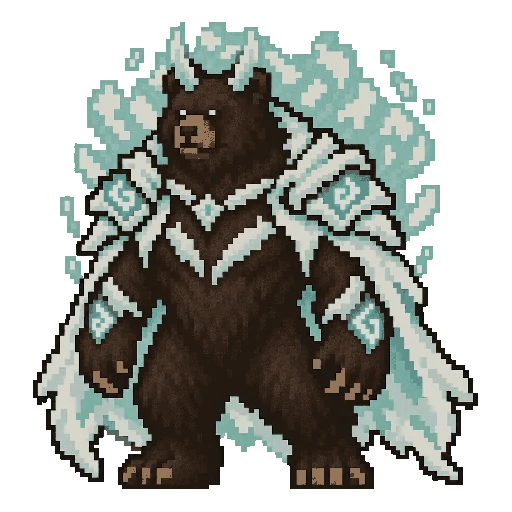
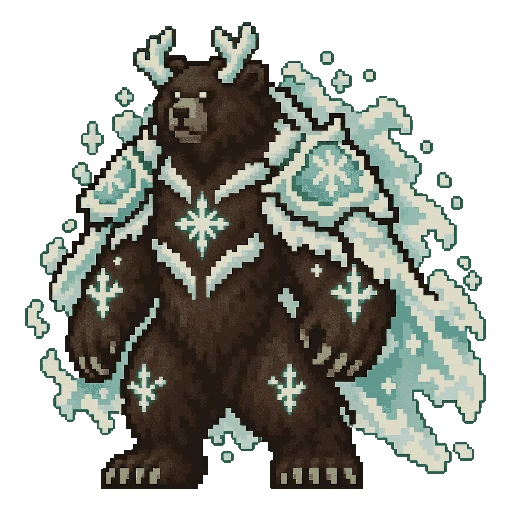
feat: 8 evolved pictures remade with the retro instructions (closer to the Gotomon look)
ユーザーの依頼で、レトロの指示（見本と同じ明るさ・くすんだ色・少ない色数・平らな かげ・ふちどりは見本なみ・
新しい部分も見本の色から）を足した指示文で 10ぴきを作りなおし（4本同時、いちばん長い列で 約8分）、元の絵・v2・v3 を
並べて1ぴきずつ えらんだ。
- v3 に した 8ひき：ヒグマロード・恐山ファントムドラゴン・越後雪鬼イエティ・琵琶湖ビワッシー・大鳴門オロチロード・
  ナイアガラレヴィアタン・ラードラゴン・長城コロッサス。ざらっとした質感・黒い ふちどりが へり、元の絵に近い。
  進化した部分（よろい・ルーン・のろし台・金の飾りなど）は のこっている。
- v2 の まま 2ひき：ジャガイモスライム・砂丘キングキャメル。v3 は 花や リボンが つくだけで、子どもの じゃがいも・
  フェネックが なくなり 進化に見えにくかった（v2 も 取り込みで 明るさ・色数を そろえてある）。
- どの回を使っているかは scripts/evolution/CHOSEN.md。

確かめたこと：取り込みで 明るさは元と 0.01 以内・大きさは元以上（元が1.00の2ひきは0.98）、10まいで 428KB（すべて100KB未満）、
companion-evolution のテスト合格。

diff --git a/scripts/evolution/CHOSEN.md b/scripts/evolution/CHOSEN.md
@@ -1,0 +1,9 @@
+# いまゲームに入っている しんかの絵（どの回か）
+
+| id | 方向 | 回 | メモ |
+|---|---|---|---|
+| HKD-E01 ジャガイモスライム | cute | v2 | v3（レトロ指示）は 花が つくだけで 進化に見えにくかった |
+| TTR-E10 砂丘キングキャメル | cute | v2 | v3 は フェネックや かざりが へって 進化に見えにくかった |
+| ほかの8ひき | | v3 | レトロ指示（明るさ・くすみ・平らな かげ・ふちどり少なめ）で 元の絵に近い |
+
+どの回も 取り込みで 元の絵に そろえてある（大きさ・明るさ・48色・lossy WebP）。作業フォルダは C:/kanji-evo/v2・v3。
